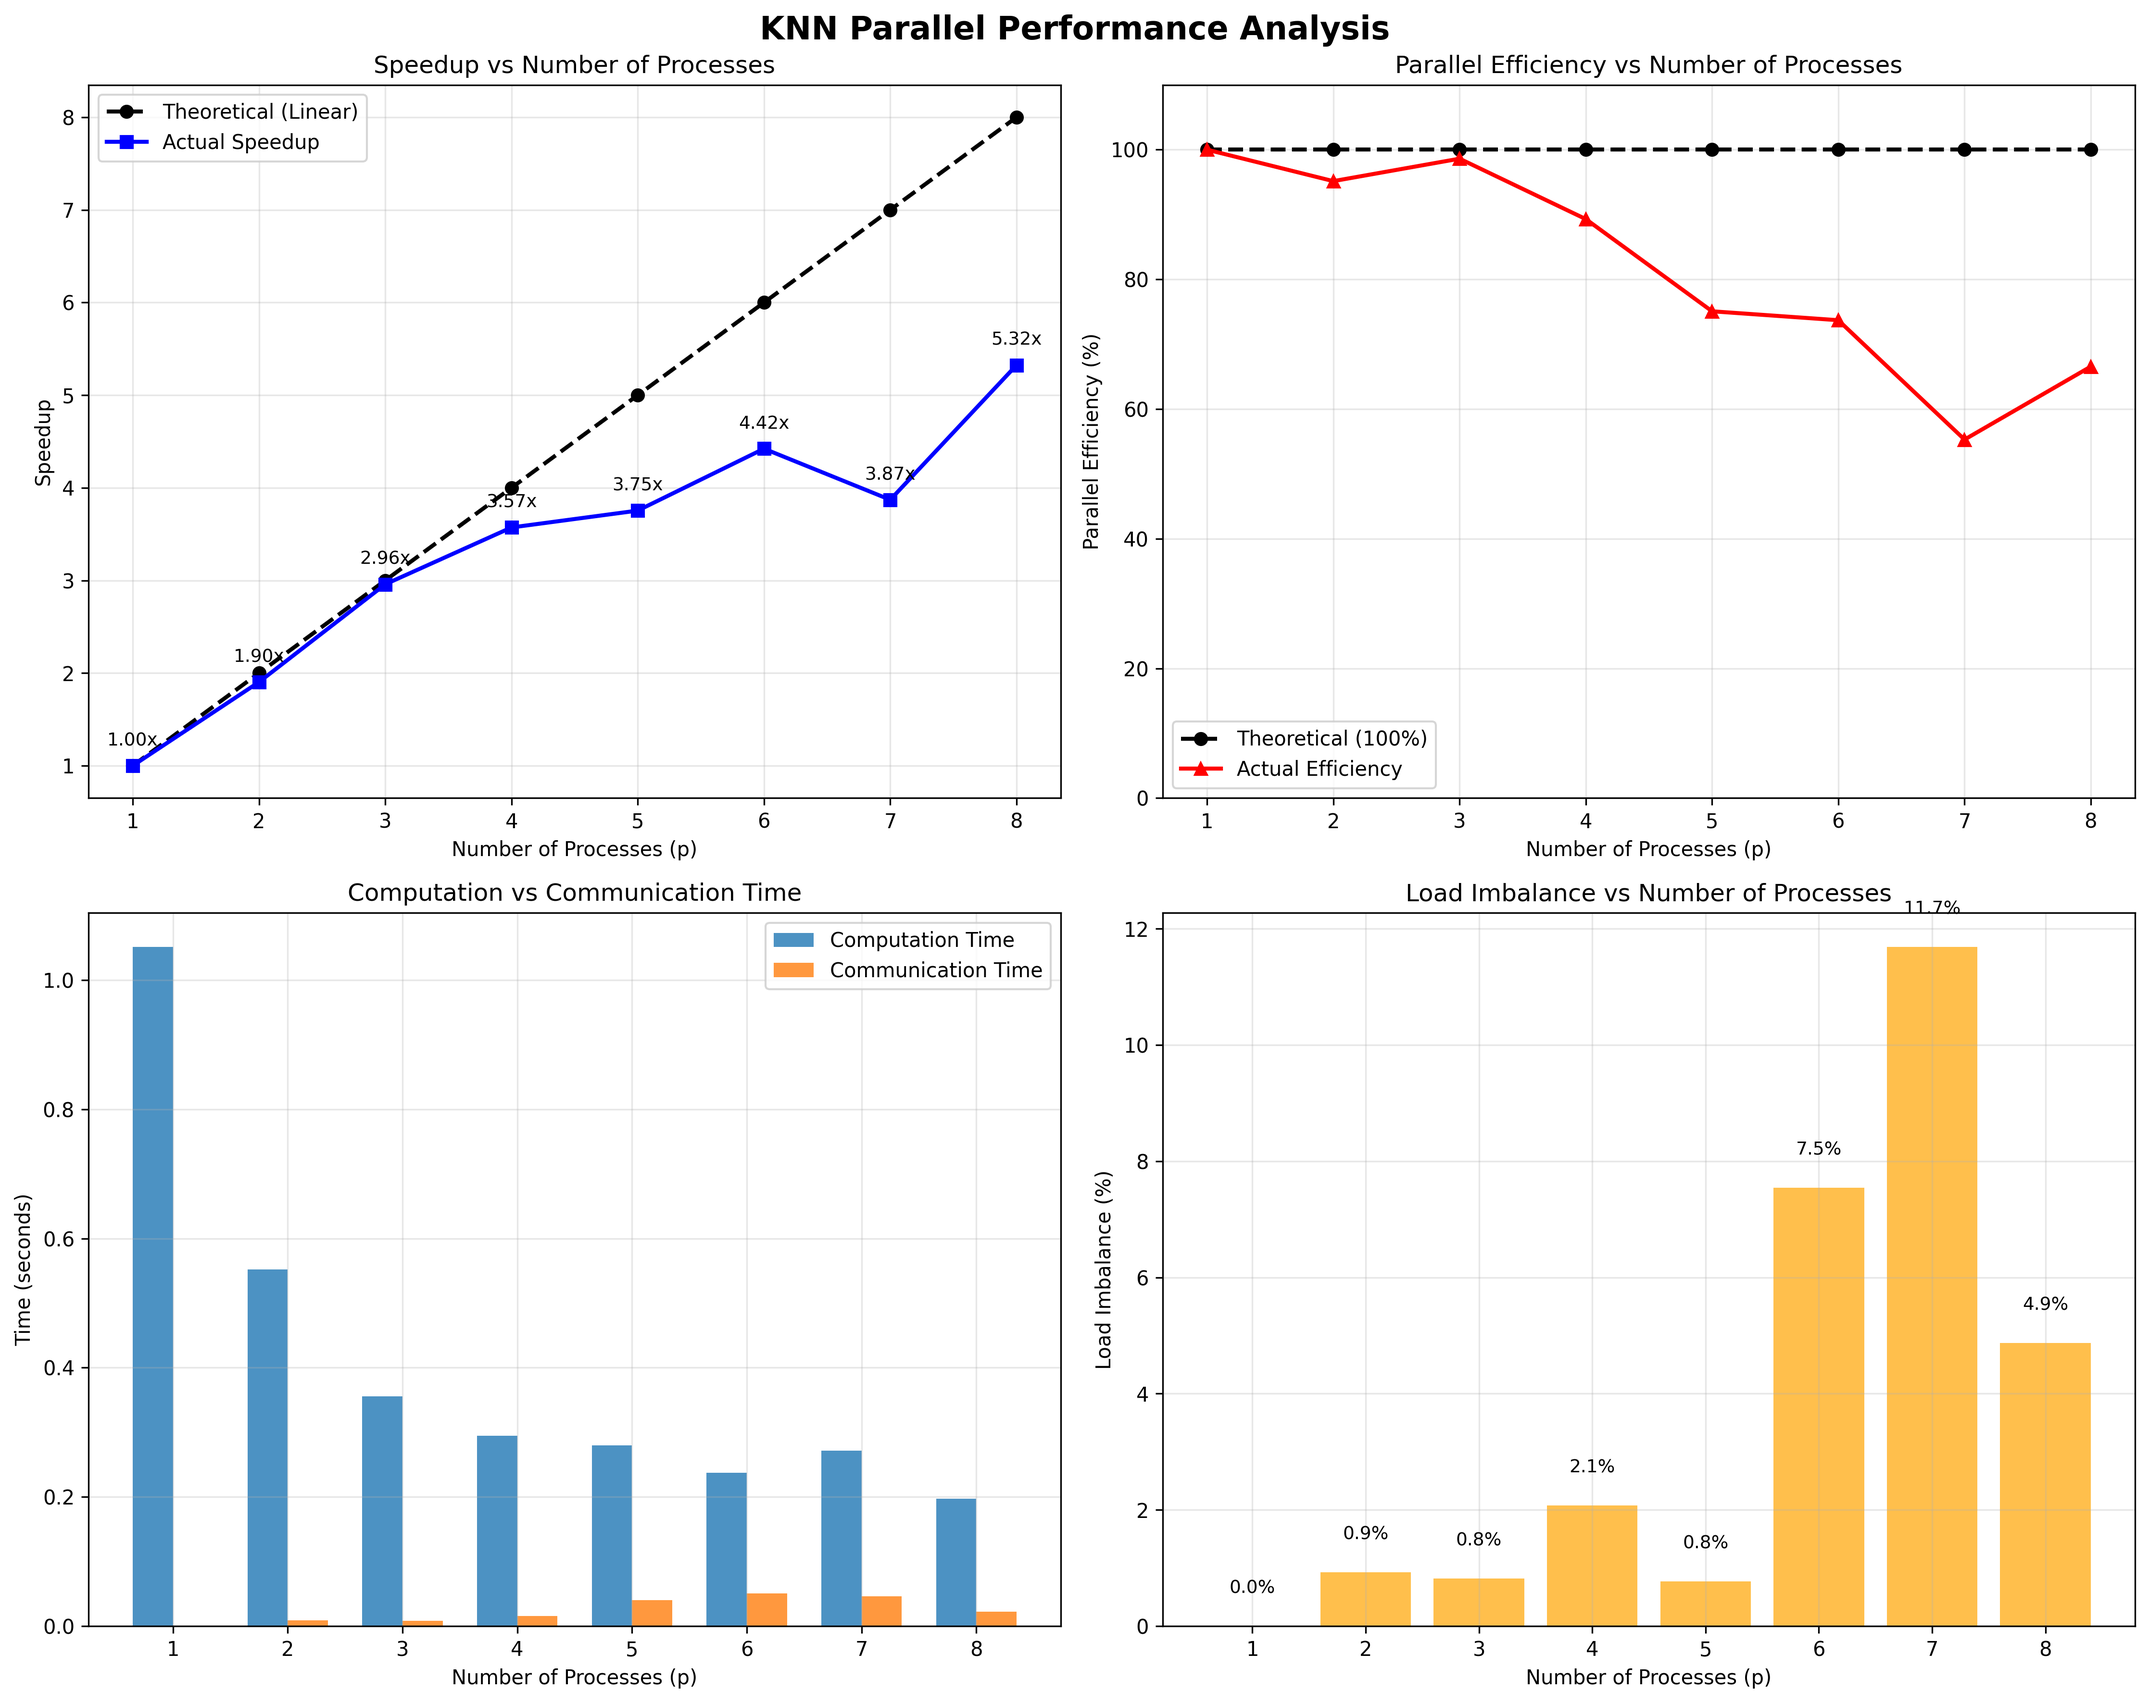
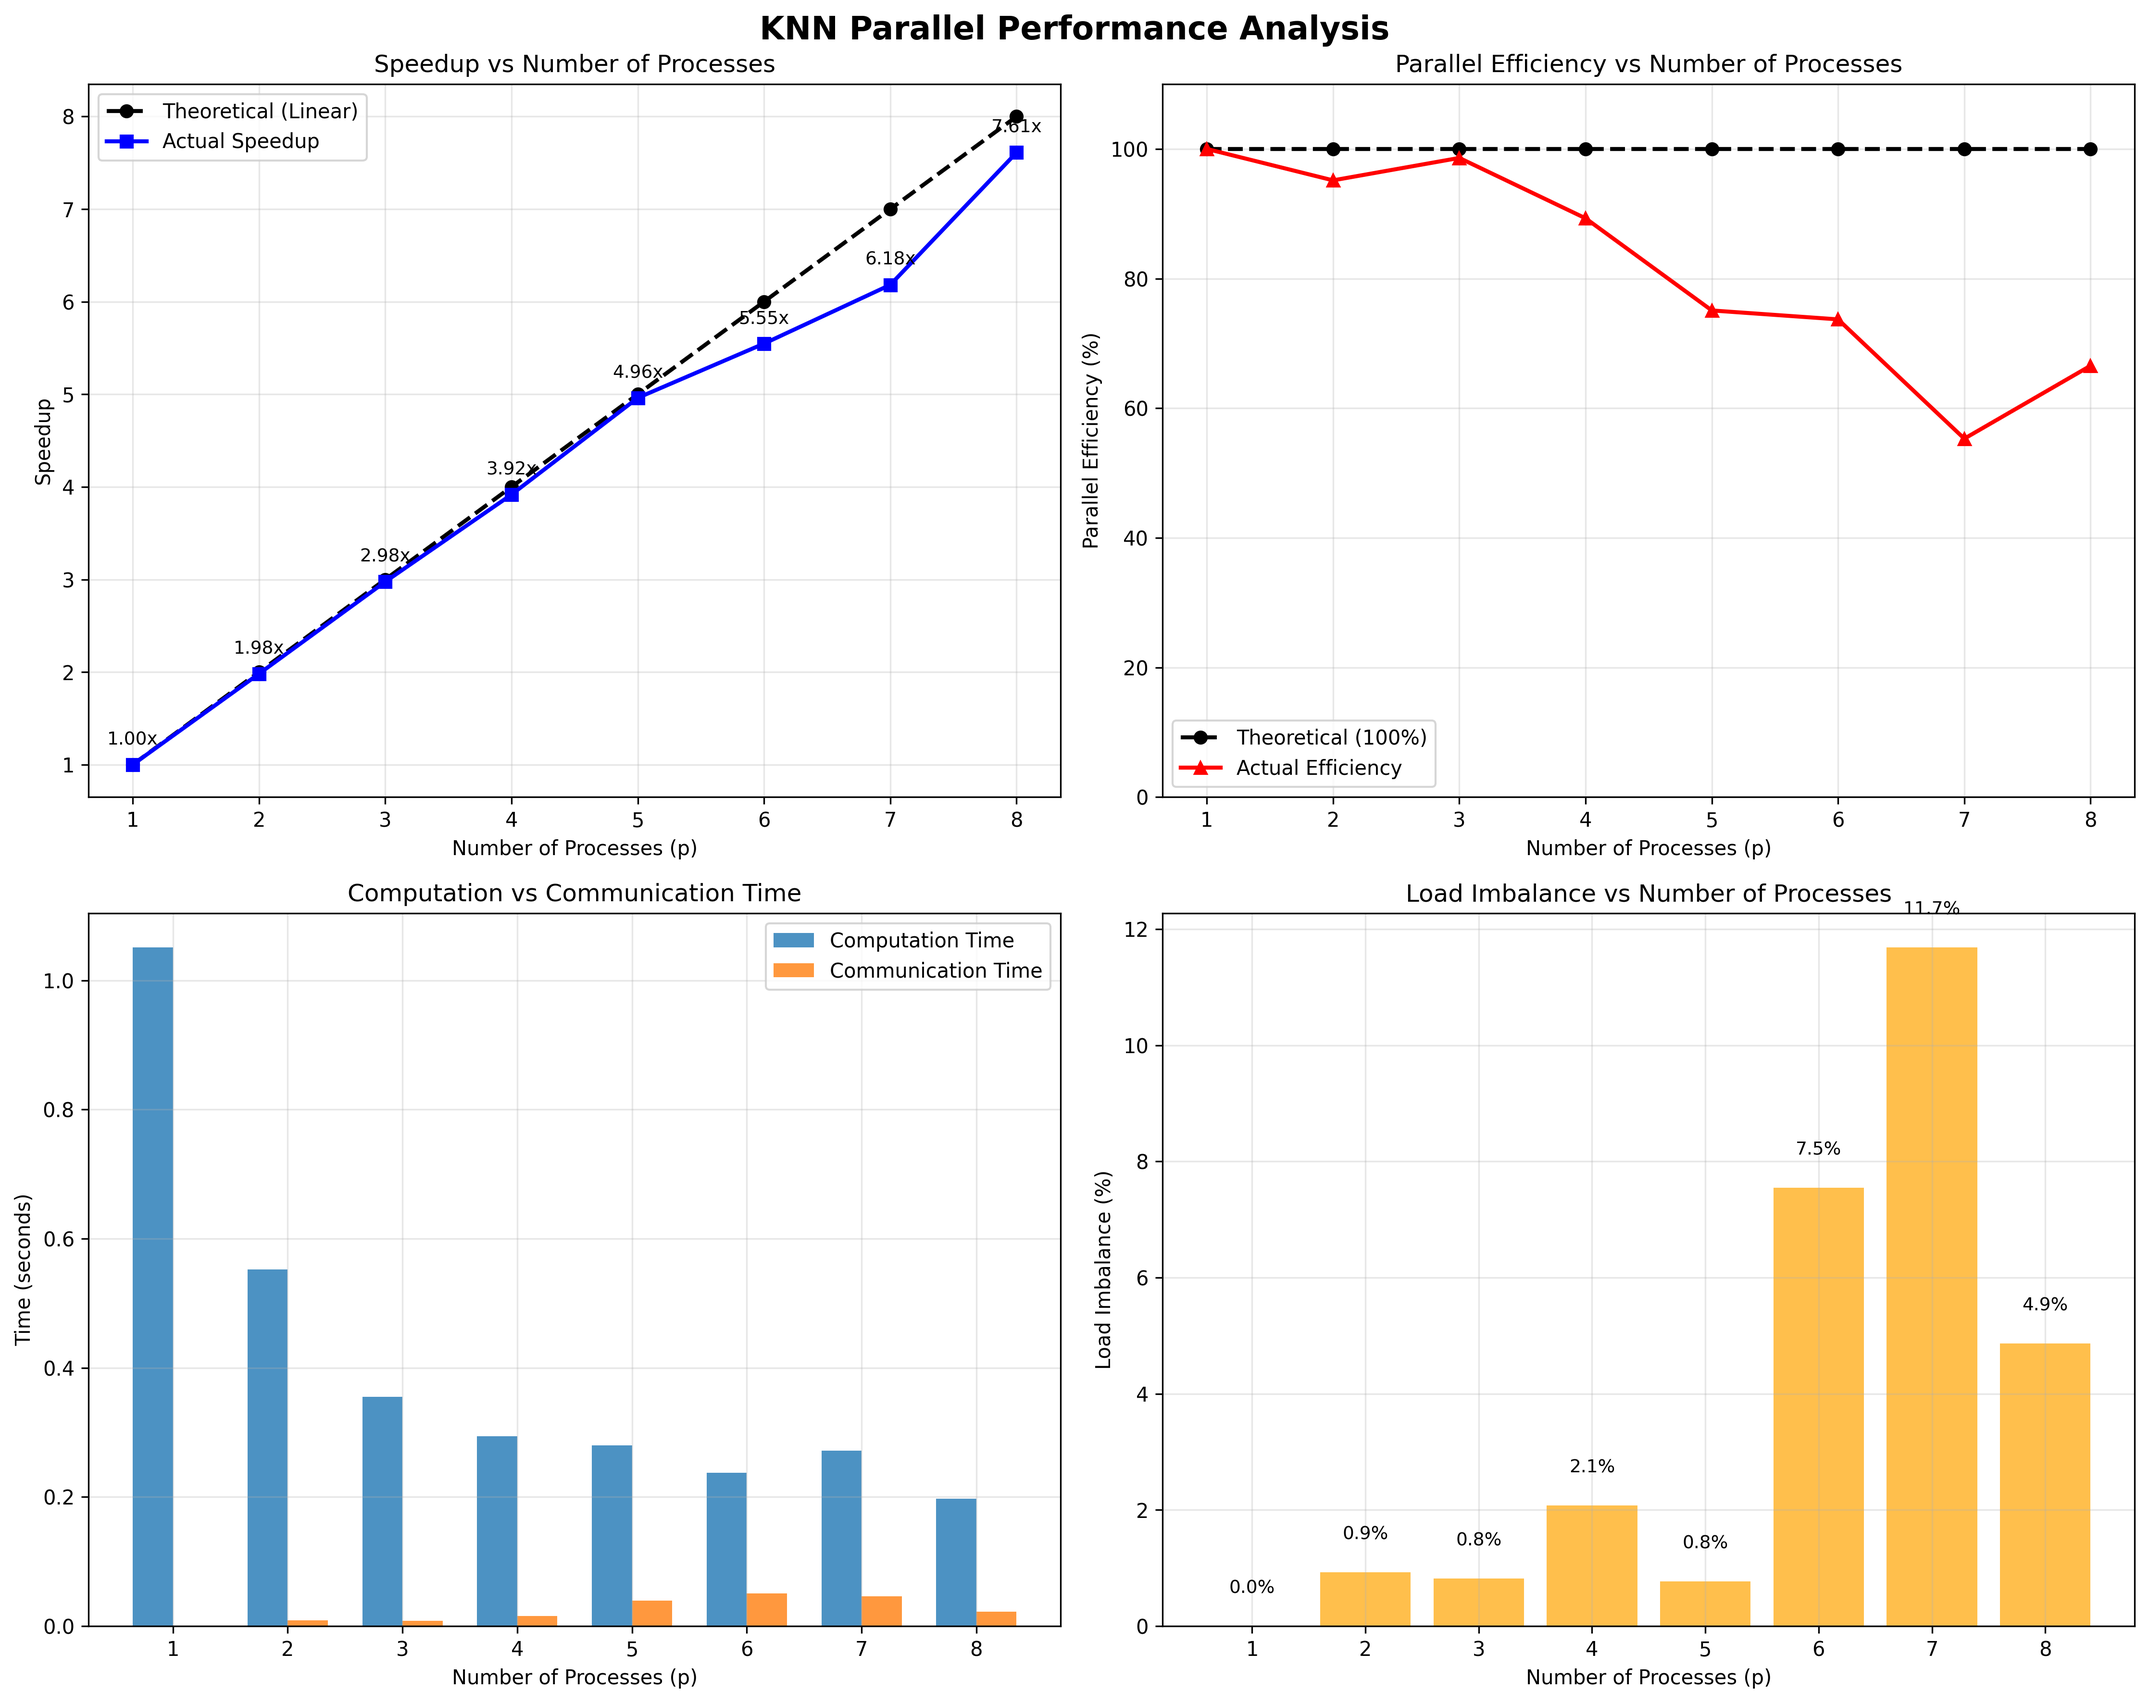
Avance

diff --git a/ejercicio_3/analysis_script.py b/ejercicio_3/analysis_script.py
@@ -67,7 +67,7 @@ def create_speedup_analysis(df):
         markersize=6,
     )
     ax1.plot(
-        processes, df["actual_speedup"], "b-", linewidth=2, label="Actual Speedup", marker="s", markersize=6
+        processes, df["speedup"], "b-", linewidth=2, label="Actual Speedup", marker="s", markersize=6
     )
 
     ax1.set_xlabel("Number of Processes (p)")
@@ -78,7 +78,7 @@ def create_speedup_analysis(df):
     ax1.set_xticks(processes)
 
     # Add speedup values as annotations
-    for i, (p, speedup) in enumerate(zip(processes, df["actual_speedup"])):
+    for i, (p, speedup) in enumerate(zip(processes, df["speedup"])):
         ax1.annotate(
             f"{speedup:.2f}x",
             (p, speedup),

diff --git a/README.md b/README.md
@@ -4,7 +4,7 @@
 
 - Paralelice `knn_digits_sec.py`, siguiendo la estructura del ejemplo discutido en clase (`knn_hpc_class_vis.py`). Es decir, debe incluir las directivas de comunicaci´on (`comm.bcast`, `comm.scatter`, `comm.gather`). (4pts)
 
-El algoritmo `ejercicio_1/knn_digits.py` cuenta con la implementación de un KNN en paralelo.
+El algoritmo `ejercicio_1/knn_digits.py` cuenta con la implementación de una versión paralela del algoritmo k-Nearest Neighbors (k-NN) utilizando la biblioteca mpi4py para distribuir la carga de cómputo entre múltiples procesos. Aprovecha el dataset de dígitos de sklearn para realizar clasificación de imágenes numéricas. El proceso maestro (rank 0) carga y divide los datos, que luego son transmitidos a todos los procesos mediante difusión (bcast). Cada proceso se encarga de predecir un subconjunto de los datos de prueba utilizando una votación mayoritaria entre los k vecinos más cercanos (k=3), calculados con distancia euclidiana. Al final, los resultados se recopilan en el proceso maestro, que calcula la precisión del modelo y visualiza predicciones seleccionadas, permitiendo evaluar el rendimiento paralelo tanto en términos de exactitud como de eficiencia computacional.
 
 ```bash
 mpirun -n 4 python ejercicio_1/knn_digits.py
@@ -27,8 +27,15 @@ finalmente corremos `ejercicio_2/generate_chart.py` para generar los  siguientes
 #### Análisis de Datos Sintéticos
 ![Análisis de Datos Sintéticos](ejercicio_2/images/synthetic_data_analysis.png)
 
+En el primer gráfico se observa cómo varía el tiempo total de ejecución del algoritmo k-NN al aumentar el número de procesos. Es evidente que al incrementar la cantidad de procesos, el tiempo total tiende a disminuir, lo que indica una mejora en el rendimiento debido al paralelismo. Sin embargo, esta mejora no es lineal, lo cual sugiere la presencia de sobrecarga asociada a la comunicación entre procesos. En escenarios con volúmenes de datos más grandes, el paralelismo permite distribuir el cómputo de manera más eficiente, pero también introduce un costo adicional en la sincronización y transferencia de datos, lo que se ve reflejado en los tiempos de comunicación.
+
 #### Análisis de Datos Reales
 ![Análisis de Datos Reales](ejercicio_2/images/real_data_analysis.png)
+
+El segundo gráfico muestra cómo la precisión del modelo se mantiene relativamente constante a pesar de los cambios en el número de procesos o la cantidad de datos. Este resultado es importante porque confirma que el modelo k-NN implementado en paralelo no compromete la calidad de las predicciones al escalar horizontalmente. La estabilidad en la métrica de accuracy sugiere que el particionamiento de los datos y la paralelización del algoritmo no introducen sesgos ni pérdida de información significativa durante el entrenamiento o la inferencia.
+
+Los resultados obtenidos permiten concluir que la implementación paralela del algoritmo k-NN presenta una buena escalabilidad, especialmente en términos de reducción del tiempo de ejecución cuando se incrementa el número de procesos. A pesar de la sobrecarga de comunicación inherente a los entornos distribuidos, el desempeño general es favorable, y la precisión del modelo se mantiene estable, lo cual valida la efectividad del enfoque. Estas pruebas reflejan el potencial de aplicar técnicas de cómputo paralelo para algoritmos clásicos de machine learning, especialmente en contextos donde se requiere procesar grandes volúmenes de datos de forma eficiente.
+
 
 ## Ejercicio 3 (4pts)
 
@@ -41,4 +48,10 @@ Para analizar el comportamiento del modelo KNN en paralelo, se ha creado un scri
 3. Desglose de tiempos de cómputo vs comunicación
 4. Análisis de balance de carga
 
+![Análisis de Datos Reales](ejercicio_3/images/knn_speedup_analysis.png)
 
+En la primera gráfica (superior izquierda), se analiza el speedup obtenido frente al número de procesos utilizados. Se observa que el algoritmo paralelo de k-NN incrementa notablemente su rendimiento conforme se añaden más procesos, alcanzando un speedup de 7.61× con 8 procesos, lo cual representa una mejora sustancial frente a la ejecución secuencial. Aunque esta ganancia es significativa y se aproxima al ideal teórico, no se alcanza una escalabilidad perfecta. Esta diferencia puede atribuirse al aumento del tiempo de comunicación, la sobrecarga de coordinación entre procesos y ciertos niveles de desbalance de carga. Además, es posible que el sistema aún tenga margen de mejora al escalar a más de 8 procesos, lo que podría revelar nuevos patrones de eficiencia o cuellos de botella.
+
+En la segunda gráfica (superior derecha), se muestra la eficiencia paralela, que representa qué tan cerca está el algoritmo de usar todos los recursos disponibles de manera óptima. Aunque la eficiencia se mantiene cercana al 100% para un bajo número de procesos, se observa una caída progresiva conforme se incrementan los procesos, alcanzando un mínimo de aproximadamente 55% con 7 procesos. Esta tendencia decreciente evidencia la presencia de overhead comunicacional y desbalance de carga, los cuales se hacen más notorios cuando se incrementa el número de procesos sin un aumento proporcional de la cantidad de datos.
+
+Finalmente, al observar las gráficas inferiores, se puede concluir que existe una compensación entre tiempo de cómputo y tiempo de comunicación, siendo este último más influyente conforme aumenta el número de procesos. A partir de 5 procesos, el desbalance de carga comienza a crecer significativamente, alcanzando un máximo del 11.7% con 7 procesos. Este fenómeno explica en parte la pérdida de eficiencia observada. No obstante, la precisión del modelo se mantiene constante en 98.3%, lo cual valida que el desempeño computacional no compromete la calidad del modelo de clasificación.
